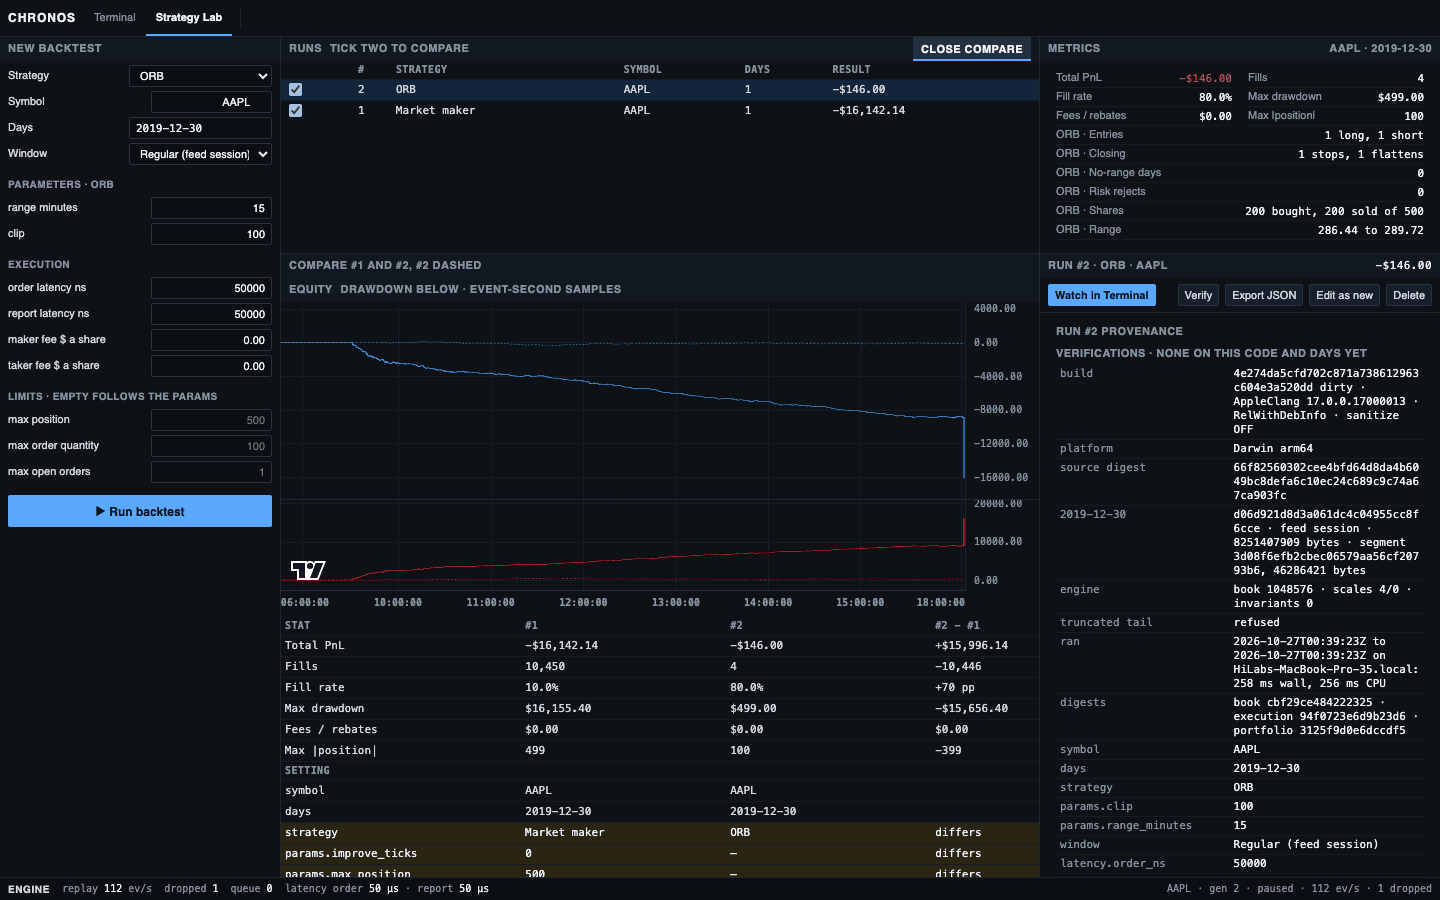
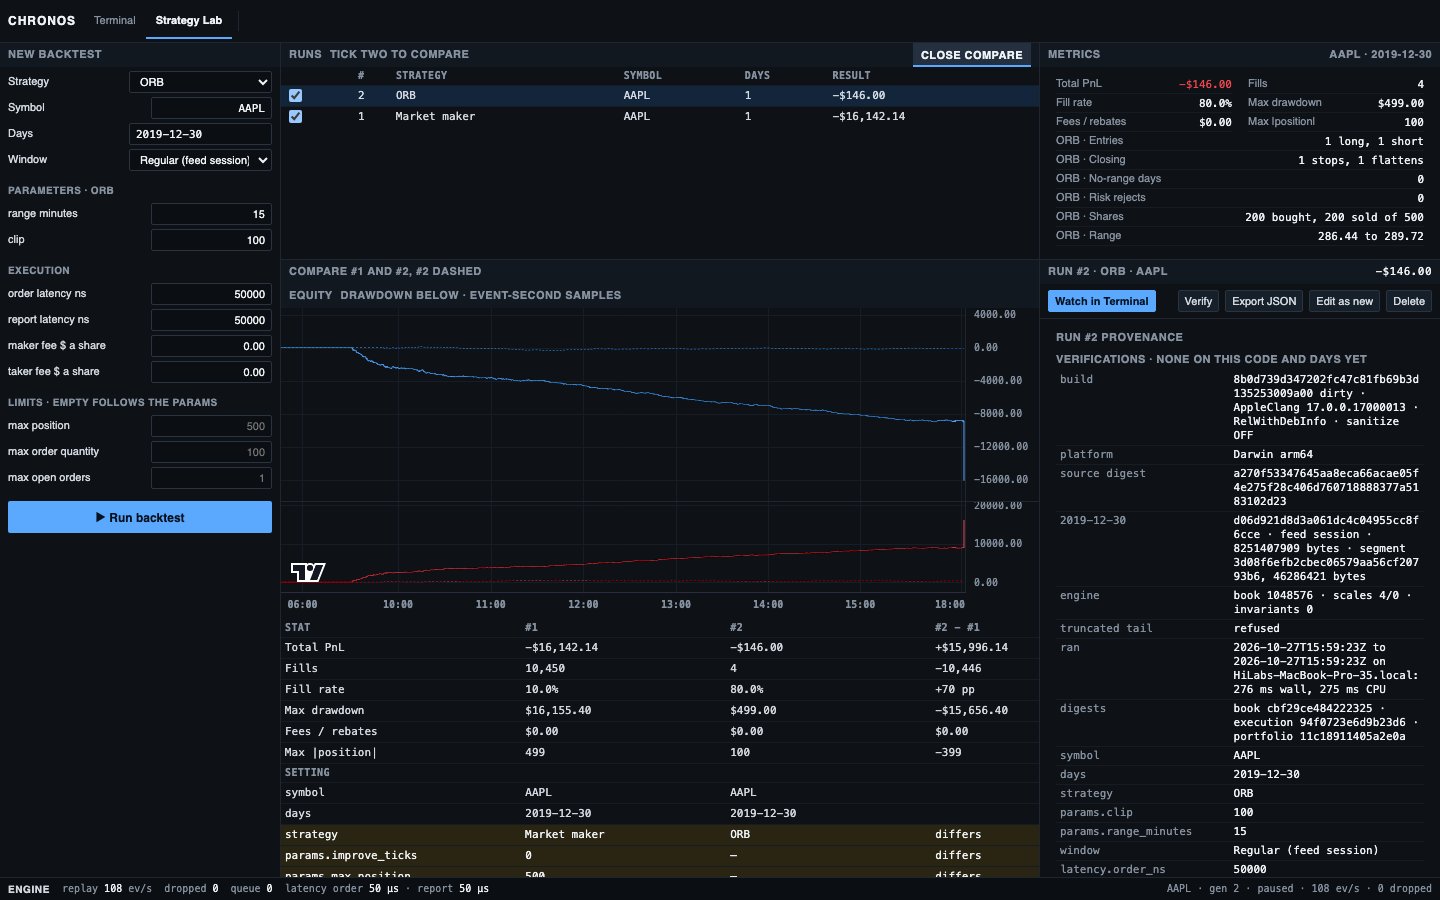
Fix what a hands-on pass of the UI found
Every control was driven by hand on three NASDAQ days and pushed:

- Under $1 the depth ladder's empty rows were a tick apart, so a $0.87
  stock showed forty empty $0.0001 rows and four with size. The rows
  are whole cents at any price now, a sub-penny level a row of its own.
- The PnL curve was laid out by wall-clock time, so days months apart
  drew each as a vertical line. Its samples are evenly spaced now, and
  over several days its title gives the dates.
- An order placed while paused waits for the replay to move and showed
  nothing until then; the ticket now says so.
- A wrong token left the dialog as it was; it now says it was refused.
- The page opened ws:// even on an https page, which browsers block, so
  the terminal behind a TLS proxy could not connect; it opens wss://.
- The Lab's equity axis printed every tick to the second, its first two
  labels overlapping; seconds show only when zoomed that far.

Documented: a reload keeps the account and the open orders but starts
the Fills list and the PnL curve empty (limitations.md). The README's
screenshots are retaken.

Vitest 121; Playwright 13 + 2 skipped.

diff --git a/web/src/ladder.ts b/web/src/ladder.ts
@@ -11,8 +11,8 @@ export interface Row {
 
 // The depth ladder's rows, highest price first: `depth` grid prices from each best outwards, every level the snapshot
 // holds, each of our resting orders' prices, and the grid prices between the bests (one null row for a spread wider
-// than `inside` of them). The grid is a cent at $1 or more and one tick below it, as US equities quote. Empty when
-// both sides are.
+// than `inside` of them). The grid is whole cents, at any price: under $1 a sub-penny level is a row of its own, but
+// the empty rows between are cents, not ten thousand ticks to the dollar. Empty when both sides are.
 export function ladder(
   bids: readonly Level[],
   asks: readonly Level[],
@@ -23,18 +23,20 @@ export function ladder(
 ): (Row | null)[] {
   const bestBid = bids[0]?.[0];
   const bestAsk = asks[0]?.[0];
-  const reference = bestAsk ?? bestBid;
-  if (reference === undefined) return [];
-  const step = reference >= 10 ** digits ? 10 ** Math.max(digits - 2, 0) : 1;
+  if (bestAsk === undefined && bestBid === undefined) return [];
+  const step = 10 ** Math.max(digits - 2, 0);
   const prices = new Set<number>([...bids, ...asks].map(([p]) => p));
   mine.forEach((o) => prices.add(o.price));
+  const up = bestAsk === undefined ? 0 : Math.ceil(bestAsk / step) * step; // the grid from each best outwards
+  const down = bestBid === undefined ? 0 : Math.floor(bestBid / step) * step;
   for (let i = 0; i < depth; i++) {
-    if (bestAsk !== undefined) prices.add(bestAsk + i * step);
-    if (bestBid !== undefined) prices.add(bestBid - i * step);
+    if (bestAsk !== undefined) prices.add(up + i * step);
+    if (bestBid !== undefined && down - i * step > 0) prices.add(down - i * step);
   }
-  const between = bestBid !== undefined && bestAsk !== undefined ? Math.floor((bestAsk - bestBid - 1) / step) : 0;
+  const between =
+    bestBid !== undefined && bestAsk !== undefined ? Math.max(0, Math.ceil((bestAsk - down) / step) - 1) : 0;
   const wide = between > inside;
-  if (!wide) for (let k = 1; k <= between; k++) prices.add(bestBid! + k * step);
+  if (!wide) for (let k = 1; k <= between; k++) prices.add(down + k * step);
   const size = (levels: readonly Level[]) => new Map(levels.map(([p, q]) => [p, q]));
   const bidSize = size(bids);
   const askSize = size(asks);

diff --git a/web/src/pnl.ts b/web/src/pnl.ts
@@ -9,7 +9,7 @@ export interface PnlCurve {
 
 // The PnL samples from the last flat one before the first change, as an SVG path of at most about `vertices` points:
 // each bucket of samples keeps its lowest and its highest, in time order, so a dip survives the thinning. The range
-// is every sample's. Two samples at least.
+// is every sample's. A sample's x is its place in order, so the nights between days take no width. Two samples at least.
 export function pnlCurve(all: readonly [number, number][], vertices = 480): PnlCurve {
   const pnl = all.slice(Math.max(0, all.findIndex((p) => p[1] !== 0) - 1));
   let lo = 0;
@@ -19,22 +19,20 @@ export function pnlCurve(all: readonly [number, number][], vertices = 480): PnlC
     hi = Math.max(hi, v);
   }
   const k = Math.max(1, Math.ceil((2 * pnl.length) / vertices));
-  const kept: [number, number][] = [];
+  const kept: number[] = []; // indexes into pnl
   for (let i = 0; i < pnl.length; i += k) {
-    let min = pnl[i];
-    let max = pnl[i];
+    let min = i;
+    let max = i;
     for (let j = i + 1; j < Math.min(i + k, pnl.length); j++) {
-      if (pnl[j][1] < min[1]) min = pnl[j];
-      if (pnl[j][1] > max[1]) max = pnl[j];
+      if (pnl[j][1] < pnl[min][1]) min = j;
+      if (pnl[j][1] > pnl[max][1]) max = j;
     }
     if (min === max) kept.push(min);
-    else kept.push(...(min[0] < max[0] ? [min, max] : [max, min]));
+    else kept.push(Math.min(min, max), Math.max(min, max));
   }
-  if (kept.at(-1) !== pnl.at(-1)) kept.push(pnl.at(-1)!);
-  const from = pnl[0][0];
-  const to = pnl.at(-1)![0];
-  const span = Math.max(1, to - from);
+  if (kept.at(-1) !== pnl.length - 1) kept.push(pnl.length - 1);
+  const last = Math.max(1, pnl.length - 1);
   const y = (v: number) => (hi === lo ? 50 : 4 + (92 * (hi - v)) / (hi - lo));
-  const d = kept.map(([t, v], i) => `${i ? 'L' : 'M'}${((1000 * (t - from)) / span).toFixed(1)} ${y(v).toFixed(1)}`);
-  return { d: d.join(' '), zero: y(0), lo, hi, from, to };
+  const d = kept.map((i, n) => `${n ? 'L' : 'M'}${((1000 * i) / last).toFixed(1)} ${y(pnl[i][1]).toFixed(1)}`);
+  return { d: d.join(' '), zero: y(0), lo, hi, from: pnl[0][0], to: pnl.at(-1)![0] };
 }

diff --git a/web/src/store.ts b/web/src/store.ts
@@ -49,7 +49,7 @@ export interface Env {
   connect(url: string, on: { open(): void; message(text: string): void; close(): void }): { send(text: string): void };
   load(key: string): string | null;
   save(key: string, value: string): void;
-  host(): string;
+  socket(): string; // the WebSocket's URL: wss on an https page, which may not open a plain ws
   frame(f: () => void): void; // runs `f` before the next paint
 }
 
@@ -357,7 +357,7 @@ export function createStore(env: Env) {
   }
 
   function open() {
-    const ws = env.connect(`ws://${env.host()}/ws`, {
+    const ws = env.connect(env.socket(), {
       open() {
         if (token) ws.send(JSON.stringify({ type: 'auth', token }));
         // Before hello, so no report the server sends from the new state's watermark can overtake the replay.
@@ -395,9 +395,10 @@ export function createStore(env: Env) {
       let res = await env.fetch('/api/symbols');
       token = res.status === 401 ? (env.load(tokenKey) ?? '') : '';
       if (token) res = await api('/api/symbols');
-      if (res.status === 401 || res.status === 403)
-        return set({ ...state, status: res.status === 401 ? 'token' : 'host' });
-      set({ ...state, symbols: ((await res.json()) as { symbols: string[] }).symbols });
+      if (res.status === 403) return set({ ...state, status: 'host' });
+      if (res.status === 401) return set({ ...state, status: 'token', notice: token ? 'the token was refused' : '' });
+      const symbols = ((await res.json()) as { symbols: string[] }).symbols;
+      set({ ...state, symbols, notice: state.status === 'token' ? '' : state.notice }); // a refusal is answered
       open();
     } catch {
       set({ ...state, status: 'closed' });
@@ -472,7 +473,7 @@ export const store = createStore({
   },
   load: (key) => sessionStorage.getItem(key),
   save: (key, value) => sessionStorage.setItem(key, value),
-  host: () => location.host,
+  socket: () => `${location.protocol === 'https:' ? 'wss' : 'ws'}://${location.host}/ws`,
   frame: (f) => void requestAnimationFrame(f),
 });
 

diff --git a/web/src/ladder.test.ts b/web/src/ladder.test.ts
@@ -33,9 +33,23 @@ describe('ladder', () => {
     expect(prices(ladder([[100_000, 1, 1]], [[110_000, 1, 1]], [], 4, 1))).toEqual([110_000, null, 100_000]);
   });
 
-  it('keeps a level off the grid, and steps a tick under $1', () => {
-    expect(prices(ladder([[100_050, 5, 1]], [[100_100, 5, 1]], [], 4, 2))).toEqual([100_200, 100_100, 100_050, 99_950]);
-    expect(prices(ladder([[5_000, 1, 1]], [[5_002, 1, 1]], [], 4, 2))).toEqual([5_003, 5_002, 5_001, 5_000, 4_999]);
+  it('keeps a level off the grid, and steps a cent under $1 too, never to a price of zero', () => {
+    const offGrid = ladder([[100_050, 5, 1]], [[100_100, 5, 1]], [], 4, 2);
+    expect(prices(offGrid)).toEqual([100_200, 100_100, 100_050, 100_000, 99_900]);
+    // $0.87 bid, $0.8810 and $0.8812 offered: the levels, whole cents beyond them, and the cent between
+    const subPenny = ladder(
+      [[8_700, 22, 1]],
+      [
+        [8_810, 1_823, 1],
+        [8_812, 10, 1],
+      ],
+      [],
+      4,
+      2,
+    );
+    expect(prices(subPenny)).toEqual([9_000, 8_900, 8_812, 8_810, 8_800, 8_700, 8_600]);
+    expect(subPenny.map((r) => r!.inside)).toEqual([false, false, false, false, true, false, false]);
+    expect(prices(ladder([[150, 1, 1]], [[200, 1, 1]], [], 4, 3))).toEqual([400, 300, 200, 150, 100]);
   });
 
   it('puts our resting orders on their price and side, and has no rows for an empty book', () => {

diff --git a/web/src/Tabs.tsx b/web/src/Tabs.tsx
@@ -1,5 +1,5 @@
 import { useState } from 'react';
-import { clock, money, px, ruleLabel, shares, signed, tone } from './format';
+import { clock, money, px, ruleLabel, shares, signed, stamp, tone } from './format';
 import { pnlCurve } from './pnl';
 import { selectOrders, store, useStore } from './store';
 
@@ -11,6 +11,7 @@ export function PnlPanel() {
   const a = useStore((s) => s.snap?.account);
   const mark = useStore((s) => (s.snap && s.snap.account.position > 0 ? s.snap.bids[0] : s.snap?.asks[0])?.[0]);
   const pnl = useStore((s) => s.pnl);
+  const multiDay = useStore((s) => s.genDays.length > 1);
   const hello = useStore((s) => s.hello);
   const digits = hello?.price_scale ?? 4;
   const cash = digits + (hello?.quantity_scale ?? 0);
@@ -22,7 +23,8 @@ export function PnlPanel() {
         <span className="grow" />
         {c ? (
           <span className="muted">
-            {clock(c.from)} → {clock(c.to)} · high <b>{signed(c.hi, cash)}</b> · low <b>{signed(c.lo, cash)}</b>
+            {stamp(c.from, multiDay)} → {stamp(c.to, multiDay)} · high <b>{signed(c.hi, cash)}</b> · low{' '}
+            <b>{signed(c.lo, cash)}</b>
           </span>
         ) : (
           <span className="muted">net PnL from the first change, as this page saw it</span>

diff --git a/web/src/store.test.ts b/web/src/store.test.ts
@@ -548,7 +548,7 @@ describe('createStore', () => {
       },
       load: (key) => saved.get(key) ?? null,
       save: (key, value) => void saved.set(key, value),
-      host: () => '127.0.0.1:8080',
+      socket: () => 'ws://127.0.0.1:8080/ws',
       frame: (f) => void frames.push(f),
     };
     const histories = () => fetched.filter((path) => path.startsWith('/api/history')).length;
@@ -606,7 +606,17 @@ describe('createStore', () => {
     const none = fake({ statuses: [401] });
     const asking = createStore(none.env);
     await asking.start();
-    expect(asking.get().status).toBe('token');
+    expect([asking.get().status, asking.get().notice]).toEqual(['token', '']);
+
+    const wrong = fake({ statuses: [401, 401] });
+    wrong.saved.set('chronos-token', 'typo');
+    const refused = createStore(wrong.env);
+    await refused.start();
+    expect([refused.get().status, refused.get().notice, wrong.connects()]).toEqual([
+      'token',
+      'the token was refused',
+      0,
+    ]);
   });
 
   it('applies each message as it comes, but tells its listeners once a frame', async () => {

diff --git a/web/src/LabResults.tsx b/web/src/LabResults.tsx
@@ -33,9 +33,12 @@ export function Equity({ runs }: { runs: Run[] }) {
   useEffect(() => {
     const days = Math.max(...runs.map((r) => r.spec.days.length));
     const label = (t: Time) => timeOfRun(t as number, days);
-    // A tick where the axis turns a day names the day; the others, the time.
-    const tick = (t: Time, type: TickMarkType) =>
-      type < TickMarkType.Time ? `day ${Math.floor((t as number) / 86_400) + 1}` : timeOfRun((t as number) % 86_400, 1);
+    // A tick where the axis turns a day names the day; the others, the time, to the second only zoomed in that far.
+    const tick = (t: Time, type: TickMarkType) => {
+      if (type < TickMarkType.Time) return `day ${Math.floor((t as number) / 86_400) + 1}`;
+      const hms = timeOfRun((t as number) % 86_400, 1);
+      return type === TickMarkType.TimeWithSeconds ? hms : hms.slice(0, 5);
+    };
     const chart = createChart(box.current!, {
       autoSize: true,
       layout: {

diff --git a/web/src/Ticket.tsx b/web/src/Ticket.tsx
@@ -16,6 +16,7 @@ export function Ticket({ price, setPrice }: { price: string; setPrice: (price: s
   const spec = useStore((s) => s.spec);
   const symbol = useStore((s) => s.symbol);
   const blocked = useStore(selectTradeBlock);
+  const paused = useStore((s) => s.state === 'paused'); // an order waits for the replay to move
   const position = useStore((s) => s.snap?.account.position ?? 0);
   const orders = useStore(selectOrders);
   const bid = useStore((s) => s.snap?.bids[0]?.[0] ?? 0);
@@ -135,6 +136,7 @@ export function Ticket({ price, setPrice }: { price: string; setPrice: (price: s
             : order}
         </button>
         {blocked !== '' && <div className="lock">Locked: {blocked}</div>}
+        {blocked === '' && paused && <div className="muted">Paused: an order reaches the book on Step or Play.</div>}
       </div>
     </section>
   );

diff --git a/web/src/App.tsx b/web/src/App.tsx
@@ -11,6 +11,7 @@ import { TopBar } from './TopBar';
 // Asks for the token a non-loopback server wants, or says why the terminal cannot connect.
 function Gate() {
   const status = useStore((s) => s.status);
+  const notice = useStore((s) => s.notice); // why the last token was refused
   const [token, setToken] = useState('');
   if (status === 'host')
     return <p className="gate">Open the terminal at 127.0.0.1 or localhost, as chronos-serve printed it.</p>;
@@ -27,6 +28,7 @@ function Gate() {
         Token <input type="password" value={token} onChange={(e) => setToken(e.target.value)} autoFocus />
       </label>
       <button>Connect</button>
+      {notice && <span className="sell">{notice}</span>}
     </form>
   );
 }

diff --git a/web/src/pnl.test.ts b/web/src/pnl.test.ts
@@ -24,4 +24,16 @@ describe('pnlCurve', () => {
     expect(c.d).toContain(' 96.0'); // the lowest value sits at the bottom of the box
     expect(c.d.split(' L').length).toBeLessThanOrEqual(482);
   });
+
+  it('spaces the samples evenly, so the months between two days take no width', () => {
+    const day = 86_400 * S;
+    const c = pnlCurve([
+      [0, 0],
+      [1 * S, -10],
+      [60 * day, -20],
+      [60 * day + S, -30],
+      [60 * day + 2 * S, -40],
+    ]);
+    expect(c.d).toBe('M0.0 4.0 L250.0 27.0 L500.0 50.0 L750.0 73.0 L1000.0 96.0');
+  });
 });

diff --git a/docs/ui.md b/docs/ui.md
@@ -21,9 +21,9 @@ The page is a grid of square panels, every number in a monospace face:
   inside, plain tickers before preferreds and warrants; the arrows and Enter, or a click, load one. To replay a symbol
   over several days in a row, tick them in the day list: each night passes at once, and Seek then takes a day and a
   time. With the box empty, Load reloads the symbol on the days ticked.
-- **Depth ladder** (left, full height). The L3 book as a price ladder a cent a row, the spread in the middle: the book's
-  size at each price with a depth bar, and our resting orders as our shares over the shares still ahead of them in the
-  queue. Click a row to price the ticket.
+- **Depth ladder** (left, full height). The L3 book as a price ladder a cent a row (a sub-penny level under $1 is a
+  row of its own), the spread in the middle: the book's size at each price with a depth bar, and our resting orders as
+  our shares over the shares still ahead of them in the queue. Click a row to price the ticket.
 - **Chart.** 1 s candles from the market's own trades, at 1 s to 1 h timeframes, with VWAP, EMA 20 and volume; pre- and
   post-market and halts shaded; the best bid and ask, our resting orders (with the shares ahead of each) and our
   position's average price as price lines; and our fills as one arrow per candle and side, their shares summed.
@@ -33,7 +33,8 @@ The page is a grid of square panels, every number in a monospace face:
 - **Ticket.** The side, each button showing the price it would meet (the bid or the ask); post-only, IOC or market; the
   price a tick at a time and the quantity by 100 or a preset; the notional, the estimated fee or rebate and the position
   after. Orders go through the same `ExecutionSimulator` as the backtests
-  ([backtesting.md](backtesting.md#d2-the-fill-model)). While a Lab run is watched the ticket is locked and says why.
+  ([backtesting.md](backtesting.md#d2-the-fill-model)); paused, an order reaches the book on the next Step or Play.
+  While a Lab run is watched the ticket is locked and says why.
 - **Account**, and under the ticket and the tape, **open orders** (with cancel), **fills** (with the rule that filled
   each and its queue ahead at entry) and each resting order's **queue** position.
 - **Engine strip** (bottom, on both pages). The replay's events a second, the snapshots this page skipped, the commands

diff --git a/README.md b/README.md
@@ -20,7 +20,7 @@ NASDAQ's public sample day, 2019-12-30: 8.25 GB, 268,744,780 messages, 8,906 sym
 | **Determinism** | the same counts and combined digest, `6897f945bcef75c2`, from list and ladder books, one thread and two, and the previous engine (with every book empty at the close, it fingerprints each symbol's adds and replaces); on a 256 MiB slice, whose books are still live at its end, the same book digests from the Linux/g++ Docker image as from the macOS/clang build |
 | **Allocations** | 0 in the replay, counted by a replacement `operator new`, with the heap unchanged; CI checks the hot path |
 | **Per-event cost** | 204.7 ns mean; 191 / 447 / 863 ns at p50 / p99 / p99.9 of 1,024-event batch means (the book thread; the clock cannot time one event: see [performance](docs/performance.md#method)) |
-| **Tests** | 698 C++ tests, 118 Vitest, 13 Playwright end-to-end; CI on Linux and macOS with ASan, UBSan and TSan |
+| **Tests** | 698 C++ tests, 121 Vitest, 13 Playwright end-to-end; CI on Linux and macOS with ASan, UBSan and TSan |
 
 [docs/performance.md](docs/performance.md) has the method and every configuration's numbers, and
 [bench/RESULTS.md](bench/RESULTS.md) the record of every run.
